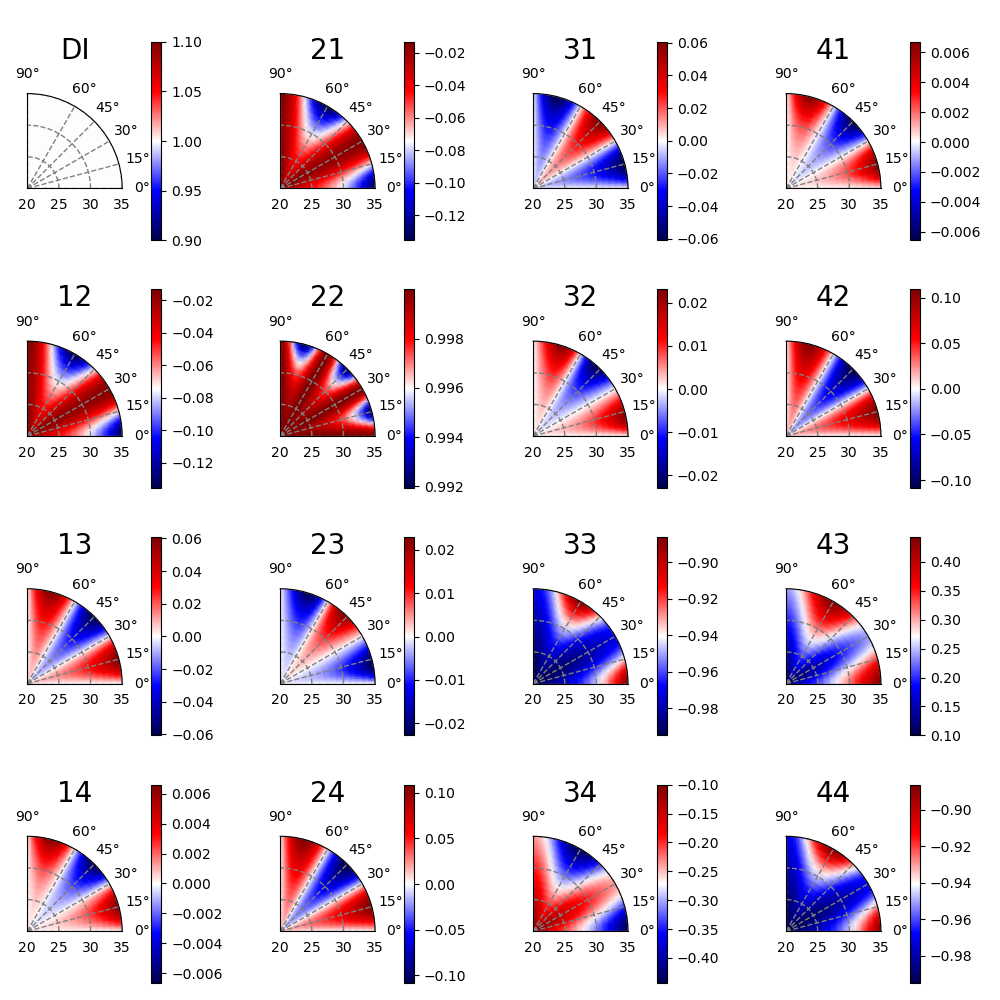
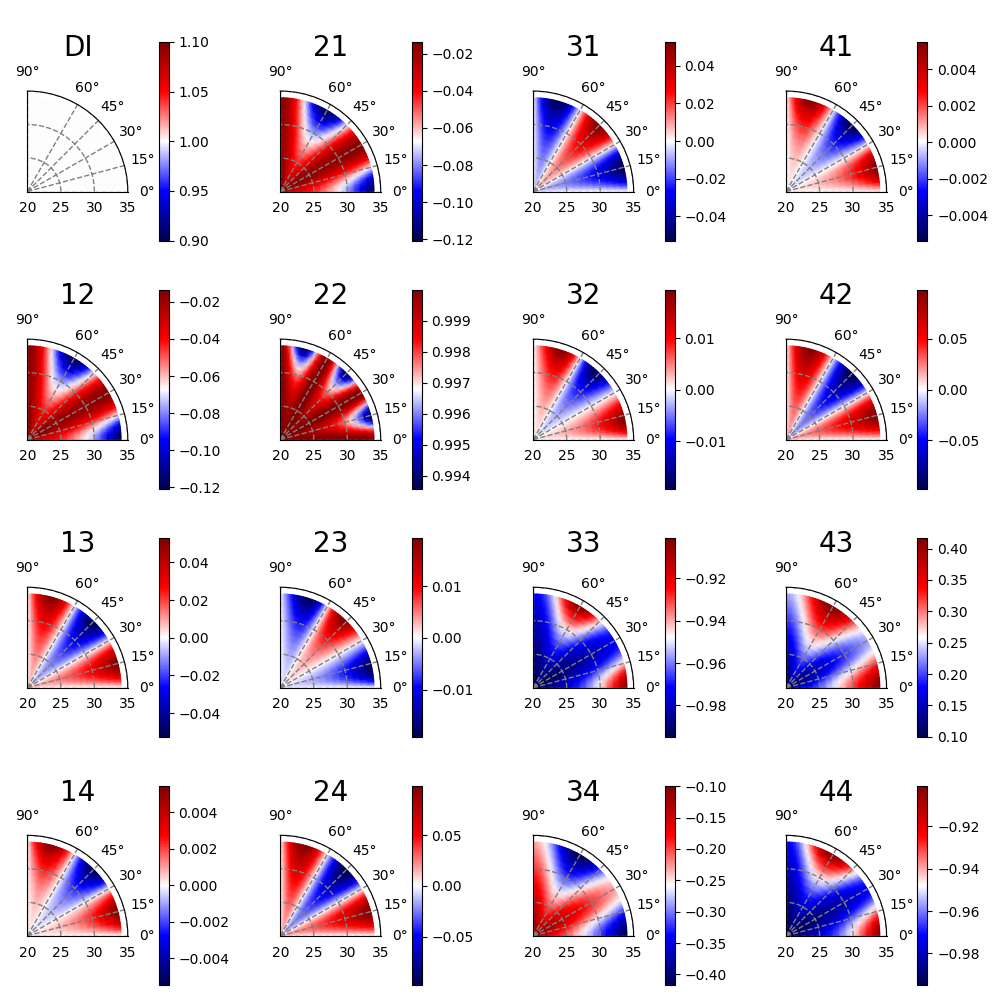
more efficient way to create list for Z on polar plots

diff --git a/json_test/format_module.py b/json_test/format_module.py
@@ -5,16 +5,19 @@ import copy
 
 class json_file:
 
-    def __init__(self, filename):
+    def __init__(self, filename, is_new=False):
         self.filename = filename
-        self.data = self.get_json(self.filename) 
-        
+        if is_new:
+            self.data = {}
+        else:
+            self.data = self.get_json(self.filename) 
+
     #returns json file of wavelength file
     def get_json(self, filename):
         with open(filename, 'r') as read_file:
             raw = json.load(read_file)
         return raw
-    
+ 
     #if array is not given return entire mueller matrix
     #else return element indexed by array parameter
     def getMM(self, aoi, azi, element=None):
@@ -130,7 +133,25 @@ def tiago_to_json(filename):
                 store[aoi][azi]["mm"] = [raw[j][6:10].tolist(), raw[j][10:14].tolist(), raw[j][14:18].tolist(), raw[j][18:22].tolist()]
     return store
 
-def plot(X, Y, Z, DECOMP=False):
+def convert_to_plot(file):
+    all_data = json_file("json_test/"+file).data
+    y = [int(aoi[0:2]) for aoi in all_data]
+    x = [float(azi) for azi in all_data["20AOI"]]
+    base_x,base_y = np.meshgrid(np.radians(x),y)
+    X = [base_x for i in range(16)]
+    Y = [base_y for i in range(16)] 
+    elements = [11,12,13,14,21,22,23,24,31,32,33,34,41,42,43,44]
+    Z=[[ [] for aoi in all_data ] for e in elements]
+    for i, aoi in enumerate(all_data): 
+        for azi in all_data[aoi]:
+            dMM = all_data[aoi][azi]["dMM"]
+            for index, element in enumerate(elements):
+                sub = str(element)
+                Z[index][i].append(dMM[int(sub[0])-1][int(sub[1])-1])
+    return X,Y,Z
+
+def plot(file, DECOMP=False):
+    X,Y,Z = convert_to_plot(file)
     #X = azimuth (xticks)
     #Y = AOI (rticks)
     #Z = dMM
@@ -162,56 +183,10 @@ def plot(X, Y, Z, DECOMP=False):
     plt.tight_layout(h_pad=1,w_pad=3)
     plt.savefig('constant_wvl_210.png')
     plt.show()
+
 file = "hex_radius_37.5_nm_structure_thickness_50_nm_pitch_120_wavelength_2.1e-07nm.json"
-manager = json_file("json_test/"+file)
-radius = manager.data
-y = []
-for aoi in radius:
-    y.append(int(aoi[0:2]))
-azimuth = manager.data["20AOI"] 
-x = []
-for azi in azimuth:
-    x.append(float(azi))
-X = []
-Y = []
-base_x,base_y = np.meshgrid(np.radians(x),y)
-for i in range(16):
-    X.append(base_x)
-    Y.append(base_y)
-n = len(azimuth)
-m = len(radius)
-z = np.zeros((m,n))
-#for j in range(len(radius)):
-#    for i in range(len(azimuth)): 
-        
-Z=[]
-#for element in range(16)
-#
-#elements = [11,12,13,14,21,22,23,24,31,32,33,34,41,42,43,44]
-#for element in elements:
-#    print(element)
-#    dict = manager.getMM_col(element)
-#    aoi_list = []
-#    for aoi in dict:
-#        azi_list = []
-#        for azi in dict[aoi]:
-#            print(azi)
-#            azi_list.append(dict[aoi][azi]["dMM"])
-#        print(aoi)
-#        aoi_list.append(azi_list)
-#    Z.append(aoi_list)
-
-#save_json("store_y.json",Y)
-Z = json_file("store_y.json").data
-print(len(Z))
-print(len(Z[0]))
-print(len(Z[0][0]))
-plot(X,Y,Z,DECOMP=True)
+plot(file, DECOMP=True)
     
-#X = 
-
-#Z = np.array([i for i in ])
-
 #file = "hex_radius_50_nm_structure_thickness_50_nm_pitch_75_nm_wavelength_2.1e-07nm.json"
 #tiago = "my_resultsother_rotations_MM_NSL_hexagonal_lattice_radius_50_nm_structure_thickness_50_nm_pitch_175_wavelength_2.1e-07nm_"
 #tiago = "my_resultsMM_NSL_hexagonal_lattice_radius_37.5_nm_structure_thickness_50_nm_pitch_120_wavelength_2.1e-07nm_"

diff --git a/json_test/run_sim.py b/json_test/run_sim.py
@@ -1,13 +1,13 @@
 import numpy as np
-import jcmwave,time,imp,shutil,os 
+#import jcmwave,time,imp,shutil,os 
 from optparse import OptionParser
-AOI = [20,21,22,23,24,25,26,27,28,29,30,31,32,33,34,35,36,37,38,39,40,41,42,43,44,45]
+AOI = [i+20 for i in range(26)]
+azi = [i*2 for i in range(46)]
+lams = [230]
 
-lams = [214,215,217,218,219,220,221,222]
-#azimuths = [0,2,4,6,8,10,12,14,16,18,20,22,24,26,28,30,32,34,36,38,40,42,44,46,48,50,52,54,56,58,60,62,64,66,68,70,72,74,76,78,80,82,84,86,88,90,92,94,96,98,100,102,104,106,108,110,112,114,116,118,120,122,124,126,128,130,132,134,136,138,140,142,144,146,148,150,152,154,156,158,160,162,164,166,168,170,172,174,176,178,180,182,184,186,188,190,192,194,196,198,200,202,204,206,208,210,212,214,216,218,220,222,224,226,228,230,232,234,236,238,240,242,244,246,248,250,252,254,256,258,260,262,264,266,268,270,272,274,276,278,280,282,284,286,288,290,292,294,296,298,300,302,304,306,308,310,312,314,316,318,320,322,324,326,328,330,332,334,336,338,340,342,344,346,348,350,352,354,356,358,360]
 keys = {}  # Create empty dictionary for keys
 for lam in lams:
-    for ang in AOI:
+    for aoi in AOI:
         parser = OptionParser()
         parser.add_option("-t", "--threads",
         action="store",type="int", dest="threads",
